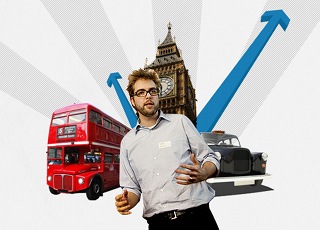
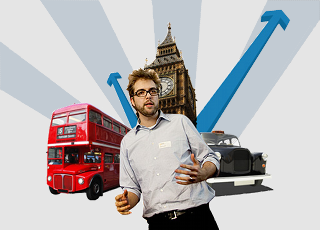
Updated About page.

diff --git a/DrupalCon/Resources/pages/styles.css b/DrupalCon/Resources/pages/styles.css
@@ -23,7 +23,7 @@ body {
   color: #000;
   font-family: Helvetica, Arial, sans-serif;
   font-size: 16px;
-  background: #fff;
+  background: #e6e2df;
   margin: 10px 8px 8px;
 
 /* prevents text resizing when phone is turned */
@@ -76,7 +76,8 @@ span.sponsor {
 -------------------------------- */
 body.about {
   background: url('about-identity.png') no-repeat top right;
-  padding-top: 310px;
+  background-color: #e6e2df;
+  padding-top: 250px;
   margin: 0 20px 10px;  
 }
 .about h1,
@@ -113,7 +114,7 @@ body.day {
 dt {
   background: url('timebreak-gradient.png') top center repeat-x;
   height: 23px;
-  color: #fff;
+  color: #e6e2df;
   padding: 2px 0 0 10px;
   font-size: 16px;
   text-shadow: 0 1px 1px #444;
